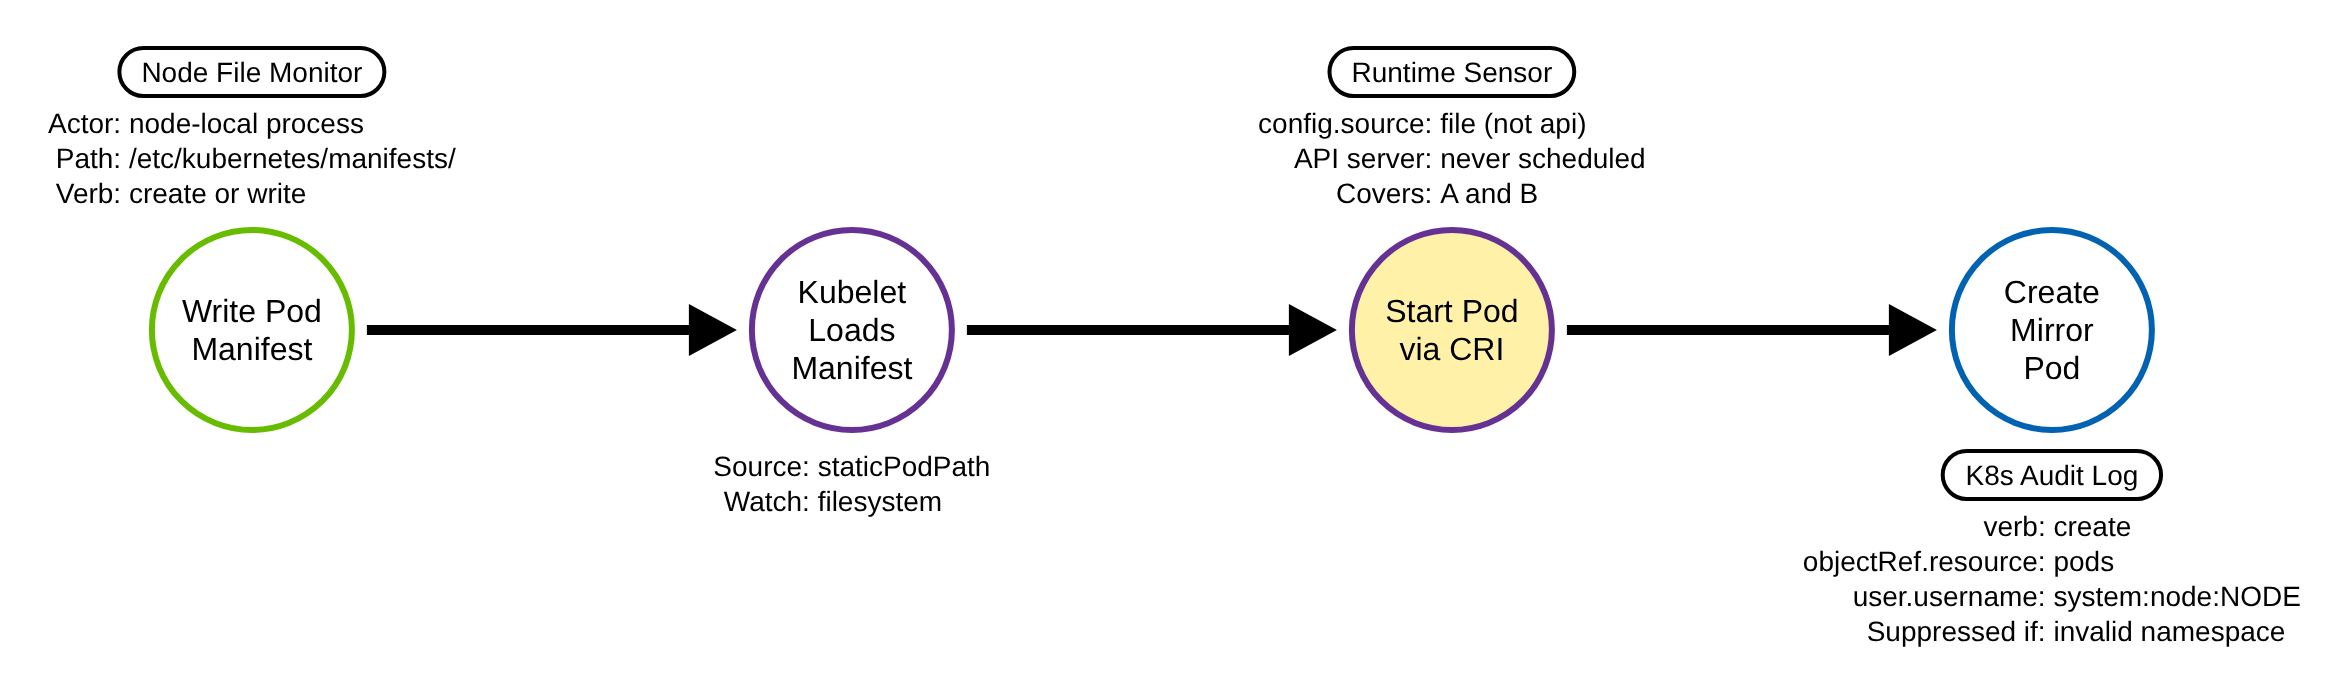
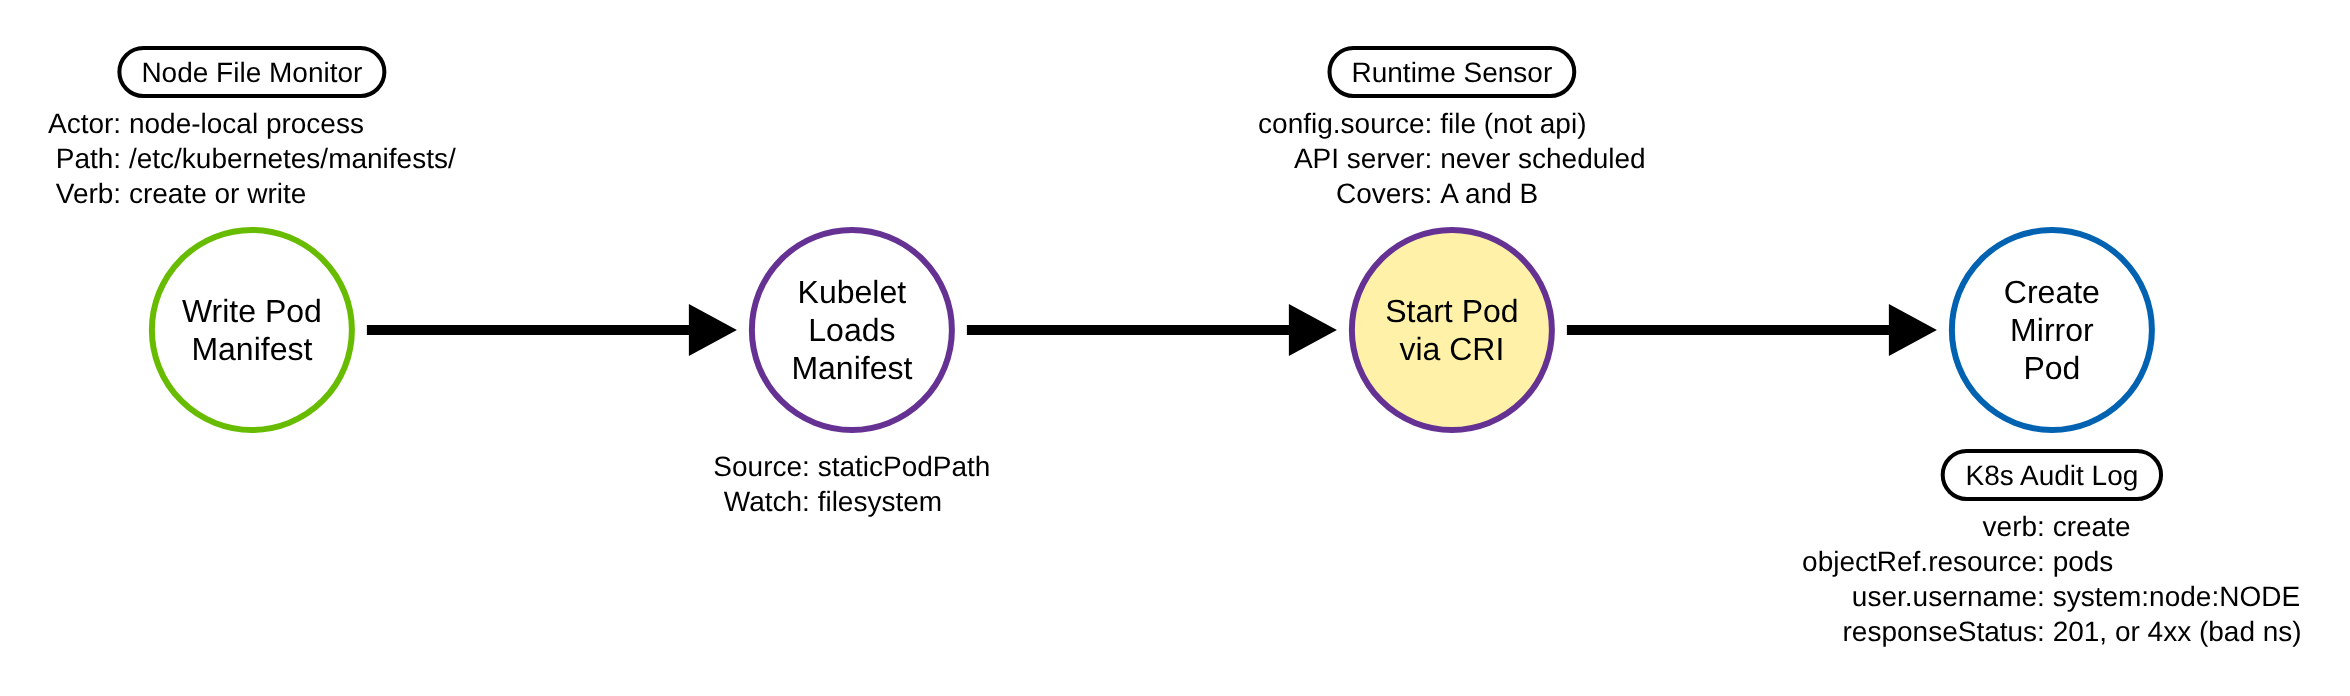
Correct the invalid-namespace claim: evasion yields a failed audit event
The CI run of the static-pod loop surfaced a factual error in the first pass.
The invalid-namespace evasion variant does NOT produce zero audit events: the
kubelet still attempts the mirror-pod create, which the API server records as a
FAILED create (non-2xx, namespace not found). The evasion hides the pod OBJECT
(kubectl / object-watchers are blind) but not the audit log — and a node
creating a pod into a non-existent namespace is in fact higher signal. The
genuinely audit-invisible element is the pod actually running on the node, which
only a node runtime sensor (the Strategy 1 chokepoint) sees.

The CI audit log confirmed this: the Strategy 2 rule matched 19 node-create
events = 16 control-plane mirrors + 1 injected static pod + 2 failed ghost
creates. The rule and the loop are correct and green; only the narrative was
wrong.

Corrected across: the TRR README (overview, audit-trace section, Procedure A
DDM summary, Detection Strategy 1/2 + enrichment + coverage, emulation and
detections notes), the validator's evasion/gap report (now inspects
responseStatus and reports the failed create instead of flagging it as
UNEXPECTED), emulate.sh gap messages, static-pod-evasion.yaml, the Strategy 2
Sigma rule description, the ART wrapper, both DDM JSONs (responseStatus property;
PNGs re-rendered), and the DDM README.

Claude-Session: https://claude.ai/code/session_012U4u6hsZYgbKxpz1KPe3gk

Changed region(s): [[0.7766, 0.8448, 0.994, 0.9353], [0.7766, 0.7543, 0.9009, 0.8147]]

diff --git a/detections/validate_staticpod_detections.py b/detections/validate_staticpod_detections.py
@@ -152,14 +152,20 @@ def dedup_by_audit_id(matches):
 
 
 def node_created_pods(events):
-    """(name, namespace) for each create-pods by a system:node identity."""
+    """(name, namespace, user, code) for each create-pods by a system:node identity.
+
+    `code` is responseStatus.code: 2xx for a mirror pod that was stored, non-2xx
+    for a mirror-create the API server rejected (e.g. an invalid-namespace
+    evasion static pod). The create attempt is audited either way.
+    """
     out = []
     for e in events:
         ref = e.get("objectRef") or {}
         user = (e.get("user") or {}).get("username", "")
         if (e.get("verb") == "create" and ref.get("resource") == "pods"
                 and "system:node:" in str(user)):
-            out.append((ref.get("name"), ref.get("namespace"), user))
+            code = (e.get("responseStatus") or {}).get("code")
+            out.append((ref.get("name"), ref.get("namespace"), user, code))
     return out
 
 
@@ -230,20 +236,22 @@ def main():
             misses += 1
             print(f"MISS  [{proc}] {fname}: no event matched")
 
-    # Separate the emulation's own static pod from the control-plane baseline.
+    # Separate the emulation's own static pods from the control-plane baseline.
     created = node_created_pods(events)
     injected = [p for p in created if (p[0] or "").startswith(INJECTED_PREFIX)]
     baseline = [p for p in created
                 if (p[0] or "").startswith(CONTROL_PLANE_PREFIXES)]
-    other = [p for p in created if p not in injected and p not in baseline]
+    evasion = [p for p in created if (p[0] or "").startswith(GHOST_NAME)]
+    classified = set(injected) | set(baseline) | set(evasion)
+    other = [p for p in created if p not in classified]
     print()
-    print(f"Node-created pods (mirror pods) seen: {len(created)}")
+    print(f"Node-created pods (mirror-pod creates) seen: {len(created)}")
     if baseline:
         print(f"  baseline (control-plane static pods): "
-              f"{', '.join(sorted(n for n, _, _ in baseline))}")
+              f"{', '.join(sorted({n for n, _, _, _ in baseline}))}")
     if injected:
-        for name, ns, user in injected:
-            print(f"  INJECTED (Procedure A): {name} in ns={ns} by {user}")
+        for name, ns, user, code in injected:
+            print(f"  INJECTED (Procedure A): {name} in ns={ns} by {user} (code={code})")
         print("  -> the emulated static pod produced the Strategy 2 audit event.")
     else:
         print("  note: no 'trr9003-static-*' mirror pod seen. If Procedure A ran, "
@@ -251,20 +259,33 @@ def main():
               "not record pods create.")
     if other:
         print(f"  other node-created pods (triage): "
-              f"{', '.join(sorted(n for n, _, _ in other))}")
+              f"{', '.join(sorted(n for n, _, _, _ in other))}")
 
-    # Gap report (informational, never gated): the evasion static pod leaves no
-    # successful mirror-pod create, so it never appears as a node-created pod.
-    ghost_seen = any((n or "").startswith(GHOST_NAME) for n, _, _ in created)
-    print("\nDetection gap (Strategy 1, chokepoint):")
-    if ghost_seen:
-        print(f"  UNEXPECTED — a '{GHOST_NAME}' mirror pod create is in the audit "
-              f"log. The invalid-namespace evasion should produce none.")
+    # Evasion variant and the chokepoint (informational, never gated). The
+    # invalid-namespace static pod does NOT evade the audit log: the kubelet still
+    # ATTEMPTS the mirror-pod create, which is audited as a FAILED (non-2xx)
+    # create. What it evades is the pod OBJECT store (kubectl get pods is blind)
+    # and, crucially, any record that the pod is actually RUNNING — only a node
+    # runtime sensor sees that.
+    print("\nEvasion variant (invalid namespace) and the Strategy 1 chokepoint:")
+    if evasion:
+        codes = sorted({str(c) for _, _, _, c in evasion})
+        failed = [p for p in evasion
+                  if not (isinstance(p[3], int) and 200 <= p[3] < 300)]
+        print(f"  the invalid-namespace static pod ('{GHOST_NAME}') appears as a "
+              f"mirror-create by the node, responseStatus code(s): {', '.join(codes)}.")
+        if failed:
+            print("  that create FAILED (non-2xx): the API server rejected the mirror "
+                  "pod because the namespace does not exist, so NO pod object was "
+                  "stored and 'kubectl get pods -A' is blind to it. But the attempt "
+                  "is still audited, and the Strategy 2 rule matches it — a node "
+                  "creating a pod into a non-existent namespace is high signal.")
+        print("  What NO audit event records is the pod actually RUNNING on the node "
+              "(the audit log sees the mirror attempt, not the workload). That is the "
+              "gap Strategy 1 fills, and only a node runtime sensor is evasion-proof.")
     else:
-        print(f"  confirmed — the invalid-namespace static pod ('{GHOST_NAME}') "
-              f"produced NO mirror-pod create in the audit log.")
-        print("  The API server (and every Sigma audit rule) is blind to it; "
-              "Strategy 1 needs a node runtime sensor.")
+        print(f"  note: no '{GHOST_NAME}' events seen (the evasion test may not have "
+              "run, or the audit policy did not record failed pods create).")
 
     print()
     if parse_errors:

diff --git a/research/trr9003/k8s/README.md b/research/trr9003/k8s/README.md
@@ -64,9 +64,11 @@ survives a restart.
 
 The pod can also be hard to see. The kubelet normally registers a read-only
 "mirror pod" in the API server so an administrator can list the static pod with
-`kubectl`. If the manifest names a namespace that does not exist, the kubelet
-cannot register the mirror pod. The static pod still runs. It just never appears
-in the API at all. Only a tool on the node, such as `crictl`, shows it.
+`kubectl`. If the manifest names a namespace that does not exist, the API server
+rejects the mirror pod, so no pod object is stored and `kubectl get pods` cannot
+see it. The static pod still runs on the node, where only a tool such as
+`crictl` shows it. (The kubelet's rejected mirror-pod attempt is still written
+to the audit log, as a failed request; what no record shows is the pod running.)
 
 This technique uses a control path that the control plane does not see. A
 detection cannot rely on the API server audit log alone. It must use a sensor on
@@ -149,7 +151,7 @@ API identity for them. An adversary reaches cluster secrets by other means, for
 example a `hostPath` mount of node files or the service account token of a
 normal pod.
 
-### The one audit-log trace, and how it disappears
+### The one audit-log trace, and its limits
 
 On a cluster with an audit policy, the only API server record of this technique
 is the mirror pod create:
@@ -160,27 +162,34 @@ is the mirror pod create:
 | `objectRef.resource` | `pods` |
 | `user.username` | `system:node:<nodeName>` |
 | `objectRef.namespace`, `objectRef.name` | the static pod's namespace and `<pod-name>-<nodeName>` |
+| `responseStatus.code` | `2xx` when the mirror pod is stored; `4xx` when the namespace does not exist |
 
 At the `Metadata` audit level the event has the fields above, but not the pod
 object, so it does not show the `config.source` or `config.mirror` annotation.
 The `Request` level adds the object and those annotations.
 
-This record is weak for two reasons. First, the control-plane components produce
-the same event — a mirror pod create by `system:node:<nodeName>` — every time a
-kubelet starts. So the event is not rare; an administrator must separate the
-adversary's mirror pod from the control-plane ones by namespace, name, and node.
-Second, the adversary removes the event entirely by naming a namespace that does
-not exist. Then the kubelet cannot create the mirror pod, so there is no create
-to audit, and the pod still runs.
+This record is weak for three reasons. First, it records the mirror-pod
+*attempt*, not the running workload: the audit log never shows the pod actually
+start on the node. Second, the control-plane components produce the same event —
+a mirror pod create by `system:node:<nodeName>` — every time a kubelet starts, so
+the event is not rare; an administrator must separate the adversary's mirror pod
+from the control-plane ones by namespace, name, and node. Third, an adversary who
+names a namespace that does not exist stops the mirror pod *object* from being
+stored — so `kubectl get pods` and anything watching pod objects are blind — but
+the kubelet's attempt is still audited, now as a **failed** create (a non-`2xx`
+`responseStatus.code`). A node creating a pod into a namespace that does not
+exist is, if anything, higher signal than a normal mirror create. What no audit
+event ever shows is the pod running; only a node runtime sensor sees that.
 
 ### Why the technique works
 
 The kubelet is built to run node-local manifests without the control plane,
 because that is how the control plane starts. The feature is an API-server
-bypass by design. The control plane cannot authorize, admit, or audit a pod it
-never receives. So the authoritative record of a static pod is on the node: the
-manifest file, the kubelet, and the container runtime. A detection must read
-from there.
+bypass by design. The control plane cannot authorize, admit, or schedule a pod
+it never receives, and the audit log sees only the kubelet's mirror-pod attempt,
+never the running workload. So the authoritative record of a static pod is on
+the node: the manifest file, the kubelet, and the container runtime. A detection
+must read from there.
 
 ## Procedures
 
@@ -234,9 +243,11 @@ Source: [`ddms/trr9003_k8s_a.json`](ddms/trr9003_k8s_a.json) (Arrows app format)
 sensor sees it, and the attacker cannot avoid it — the pod must start to run. The
 *Write Pod Manifest* node is a second node opportunity: a file create in the
 static-pod directory, seen by a node file monitor. The *Create Mirror Pod* node
-is the only API-server-side opportunity, and it is a fallback: it is absent when
-the attacker names an invalid namespace, and the control plane produces the same
-event at every kubelet start.
+is the only API-server-side opportunity, and it is a fallback: it records the
+mirror *attempt*, not the running pod; the attacker's invalid-namespace variant
+turns it into a *failed* create (which is still audited, and is higher signal)
+while removing the pod object; and the control plane produces the same event at
+every kubelet start.
 
 ### Procedure B: Reconfigure the kubelet static source  (`TRR9003.K8S.B`)
 
@@ -280,13 +291,15 @@ Compare the two DDMs. Both end at the same node: the kubelet starts a pod the
 API server never scheduled. That node is the invariant chokepoint, and it is on
 the node, not in the control plane. The upstream nodes differ — a file write to a
 watched directory for A, a kubelet reconfiguration for B — and each gives a
-node-level fallback. The one API-server record, the mirror pod create, is weak
-and evadable.
+node-level fallback. The one API-server record, the mirror pod create, is weak:
+it records the mirror *attempt*, not the running pod, and it is noisy at
+bootstrap.
 
 So the plan has four parts, and only one of them lives in the API server audit
-log. The audit log carries just the evadable fallback. The strong, evasion-proof
-anchor is a node runtime sensor. This is the same shape as TRR9002: the path that
-avoids the API server needs a node sensor, and the audit log cannot replace it.
+log. The audit log carries just that fallback. The strong, evasion-proof anchor
+is a node runtime sensor — it is the only thing that sees the pod actually
+running. This is the same shape as TRR9002: the path that avoids the API server
+needs a node sensor, and the audit log cannot replace it.
 
 **Telemetry note.** Strategy 2 needs the API server audit policy to record
 `pods` create at `Metadata` level or higher. Strategies 1, 3, and 4 need node
@@ -305,19 +318,24 @@ namespace and whatever the source. This is the only evasion-proof anchor.
 
 - Sensor: a runtime security agent or an EDR agent on each node.
 - Rule: none at the audit-log layer, by design. The `emulate.sh` evasion variant
-  documents the gap: an invalid-namespace static pod runs on the node and
-  produces no API server audit event at all.
+  shows the limit of the audit log: an invalid-namespace static pod runs on the
+  node, the audit log records only the kubelet's *failed* mirror-pod attempt (not
+  the running pod), and no pod object is stored — so only a node runtime sensor
+  sees the workload itself.
 
-**Strategy 2 — fallback (covers A and B when the mirror pod is created).**
+**Strategy 2 — fallback (covers A and B).**
 Match audit events where `verb` is `create`, `objectRef.resource` is `pods`, and
 `user.username` is a node identity (`system:node:...`). Normally a node creates a
-pod only to register a mirror pod for a static pod, so this is a narrow signal.
-It is a fallback, not the anchor, for two reasons: an invalid namespace removes
-the event, and the control-plane components produce the same event at every
-kubelet start. Triage on namespace, pod name, and node: the control-plane mirror
-pods are in `kube-system` with known names (`kube-apiserver-*`, `etcd-*`,
-`kube-controller-manager-*`, `kube-scheduler-*`). A node-created pod outside
-`kube-system`, or a `kube-system` pod that is not one of those, is the signal.
+pod only to register a mirror pod for a static pod, so this is a narrow signal,
+and it fires for the invalid-namespace variant too (as a failed create). It is a
+fallback, not the anchor, for two reasons: it records the mirror *attempt*, not
+the running pod, and the control-plane components produce the same event at every
+kubelet start. Triage on namespace, pod name, node, and `responseStatus.code`:
+the control-plane mirror pods are in `kube-system` with known names
+(`kube-apiserver-*`, `etcd-*`, `kube-controller-manager-*`, `kube-scheduler-*`)
+and succeed. A node-created pod outside `kube-system`, a `kube-system` pod that
+is not one of those, or any node pod-create with a non-`2xx` status (the
+invalid-namespace evasion), is the signal.
 
 - Sensor: API server audit log.
 - Rule: [`detections/sigma/T1543.005/k8s_static_pod_mirror_create.yml`](../../../detections/sigma/T1543.005/k8s_static_pod_mirror_create.yml) (built).
@@ -348,23 +366,29 @@ Sigma audit rule covers them.
   `privileged: true`. A static pod with node-level access is higher risk.
 - **Namespace.** The static pod is in `kube-system` or another system namespace,
   to blend with the control-plane static pods, or in a namespace that does not
-  exist, to suppress the mirror pod.
+  exist, to suppress the mirror pod *object*.
+- **Failed node create.** A `create pods` by a node identity with a non-`2xx`
+  `responseStatus.code` — a node creating a pod into a namespace that does not
+  exist — is the invalid-namespace evasion variant, and is high fidelity.
 - **Image and command.** The image is not a cluster component. The command names
   a shell, a download tool, or a reverse-shell pattern.
-- **Visibility gap.** A pod runs on the node (seen with `crictl`) with no pod or
-  mirror pod in the API for it. A reconciliation between node runtime inventory
-  and the API server surfaces this directly.
+- **Visibility gap.** A pod runs on the node (seen with `crictl`) with no pod
+  object in the API for it. A reconciliation between node runtime inventory and
+  the API server surfaces this directly, and catches the invalid-namespace case
+  that leaves only a failed create in the audit log.
 
 **Coverage summary.**
 
 | Procedure | Covered by | How |
 |-----------|-----------|-----|
-| A | Strategy 1 (chokepoint); Strategy 3; Strategy 2 if a mirror pod is created | kubelet starts a `config.source: file` pod; file write to `staticPodPath`; mirror pod create by a node |
-| B | Strategy 1 (chokepoint); Strategy 4; Strategy 2 if a mirror pod is created | kubelet starts a `config.source: file`/`http` pod; kubelet config change + restart, or outbound manifest fetch; mirror pod create by a node |
+| A | Strategy 1 (chokepoint); Strategy 3; Strategy 2 (mirror attempt) | kubelet starts a `config.source: file` pod; file write to `staticPodPath`; mirror pod create by a node (success, or a failed create for an invalid namespace) |
+| B | Strategy 1 (chokepoint); Strategy 4; Strategy 2 (mirror attempt) | kubelet starts a `config.source: file`/`http` pod; kubelet config change + restart, or outbound manifest fetch; mirror pod create by a node |
 
-One node runtime rule covers both procedures and resists evasion. The audit-log
-rule covers the common, non-evasive case but is noisy and avoidable. Two node
-rules cover the upstream file and configuration changes.
+One node runtime rule covers both procedures and resists evasion — it is the only
+sensor that sees the pod running. The audit-log rule catches the mirror-pod
+attempt (including the invalid-namespace variant, as a failed create) but records
+the attempt, not the workload, and is noisy at bootstrap. Two node rules cover
+the upstream file and configuration changes.
 
 ## Available Emulation Tests
 
@@ -381,7 +405,7 @@ up the manifest it wrote.
 | ID | Test | Status |
 |----|------|--------|
 | TRR9003.K8S.A | `emulate.sh a` — write a benign static pod manifest to `/etc/kubernetes/manifests` on the node; confirm the kubelet starts it and registers a mirror pod (`create pods` by `system:node:...`). | **built** |
-| TRR9003.K8S.A (evasion) | `emulate.sh gap` — write a manifest with a namespace that does not exist; show the pod runs on the node (`crictl`) but never appears in `kubectl get pods -A` and produces no mirror-pod audit event. | **built** |
+| TRR9003.K8S.A (evasion) | `emulate.sh gap` — write a manifest with a namespace that does not exist; show the pod runs on the node (`crictl`) and never appears as an object in `kubectl get pods -A`. The kubelet's mirror-pod attempt is audited as a *failed* create, while the running pod itself is not — only the node sensor sees it. | **built** |
 | TRR9003.K8S.B | `emulate.sh b` — read-only demonstration of the kubelet static-source configuration (`staticPodPath` / `staticPodURL`); shows the reconfiguration point without restarting the kubelet, to keep the lab stable. | **built (read-only)** |
 
 ## Detections
@@ -389,22 +413,25 @@ up the manifest it wrote.
 | Strategy | Covers | Sigma rule | Sensor |
 |----------|--------|------------|--------|
 | 1 (chokepoint) | A, B | none; depends on the sensor | node runtime sensor |
-| 2 (fallback) | A, B (mirror pod created) | [`detections/sigma/T1543.005/k8s_static_pod_mirror_create.yml`](../../../detections/sigma/T1543.005/k8s_static_pod_mirror_create.yml) | API server audit log |
+| 2 (fallback) | A, B (mirror-pod attempt) | [`detections/sigma/T1543.005/k8s_static_pod_mirror_create.yml`](../../../detections/sigma/T1543.005/k8s_static_pod_mirror_create.yml) | API server audit log |
 | 3 (fallback) | A | [`detections/sigma/T1543.005/linux_static_pod_manifest_write.yml`](../../../detections/sigma/T1543.005/linux_static_pod_manifest_write.yml) | node file integrity / EDR |
 | 4 (fallback) | B | none; documented | node config + flow telemetry |
 
 The Kubernetes loop has its own validator,
 [`detections/validate_staticpod_detections.py`](../../../detections/validate_staticpod_detections.py):
 it reads the API server audit log the emulation produced and asserts the
-Strategy 2 Sigma rule matches the mirror-pod create. The workflow
+Strategy 2 Sigma rule matches the mirror-pod create (it also separates the
+injected static pod from the control-plane baseline and reports the
+invalid-namespace variant as a failed create). The workflow
 [`validate-staticpod-detections.yml`](../../../.github/workflows/validate-staticpod-detections.yml)
 runs the whole loop on a `kind` cluster for every change to these files.
 
-Strategy 1 (the chokepoint) has no audit-log rule by design: a static pod never
-reaches the API server, so the `emulate.sh gap` test documents the gap rather
-than feeding a rule. A node runtime sensor covers it. Strategy 3's rule is a node
-file-event rule; it parses in the validator but the audit-log loop does not
-exercise it, because it needs node file telemetry, not the API server audit log.
+Strategy 1 (the chokepoint) has no audit-log rule by design: the running
+workload never reaches the API server (only the kubelet's mirror-pod attempt
+does), so the `emulate.sh gap` test documents the gap rather than feeding a rule.
+A node runtime sensor covers it. Strategy 3's rule is a node file-event rule; it
+parses in the validator but the audit-log loop does not exercise it, because it
+needs node file telemetry, not the API server audit log.
 
 This technique is not covered by `tired-labs/techniques` (no Kubernetes TRR
 exists there), by the SigmaHQ Kubernetes audit rules (there is no static-pod or

diff --git a/research/trr9003/k8s/ddms/README.md b/research/trr9003/k8s/ddms/README.md
@@ -29,5 +29,7 @@ plane is not in this path.
 
 The *Create Mirror Pod* node (blue) is the one audit-log opportunity: the
 kubelet registers a mirror pod as `system:node:<node>`. It is a fallback, not
-the anchor — an attacker suppresses it by naming an invalid namespace, and the
+the anchor — it records the mirror *attempt*, not the running pod. An attacker
+who names an invalid namespace removes the mirror pod *object* (the audited
+create then fails with a non-`2xx` status, which is still high signal), and the
 control-plane components produce the same event at every kubelet start.
